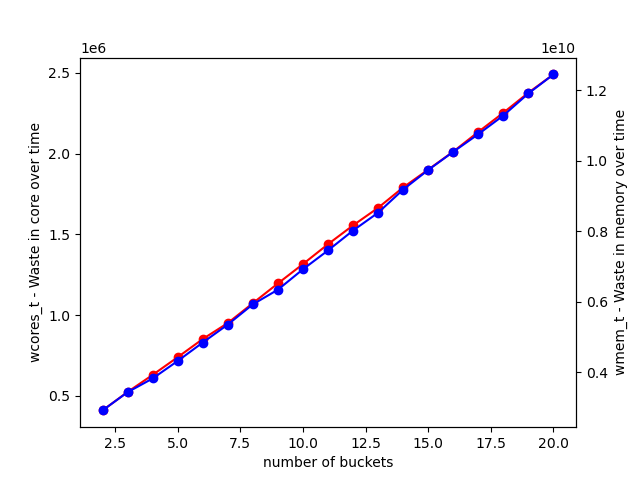
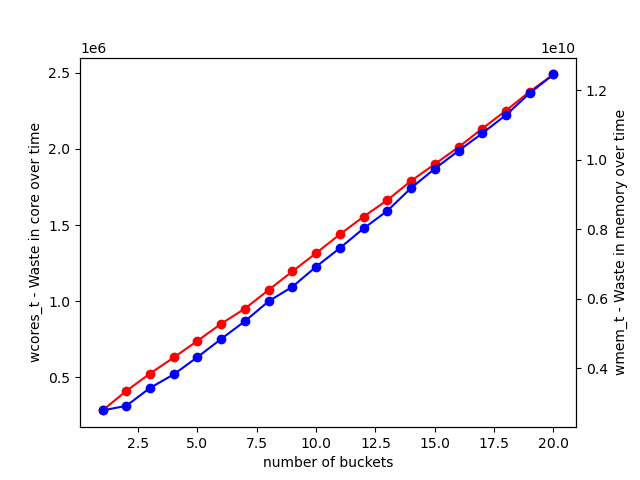
Fix the plot in colmena where 1 bucket strat isn't included

diff --git a/resources_analysis/colmena/eval_alloc_strats.py b/resources_analysis/colmena/eval_alloc_strats.py
@@ -529,8 +529,8 @@ plt.savefig(plot_dir + "2_buckets_change_cold_starts.png")
 #fix number of cold strats, change number of buckets
 plot_wmem_t = []
 plot_wcores_t = []
-num_buckets = [i for i in range(2, 21)]
-for i in range(2, 21):
+num_buckets = [i for i in range(1, 21)]
+for i in range(1, 21):
 	cold_bucketing(all_res, i, 20, mach_capa, 1)
 	plot_wmem_t.append(stats['wmem_t'])
 	plot_wcores_t.append(stats['wcores_t'])
